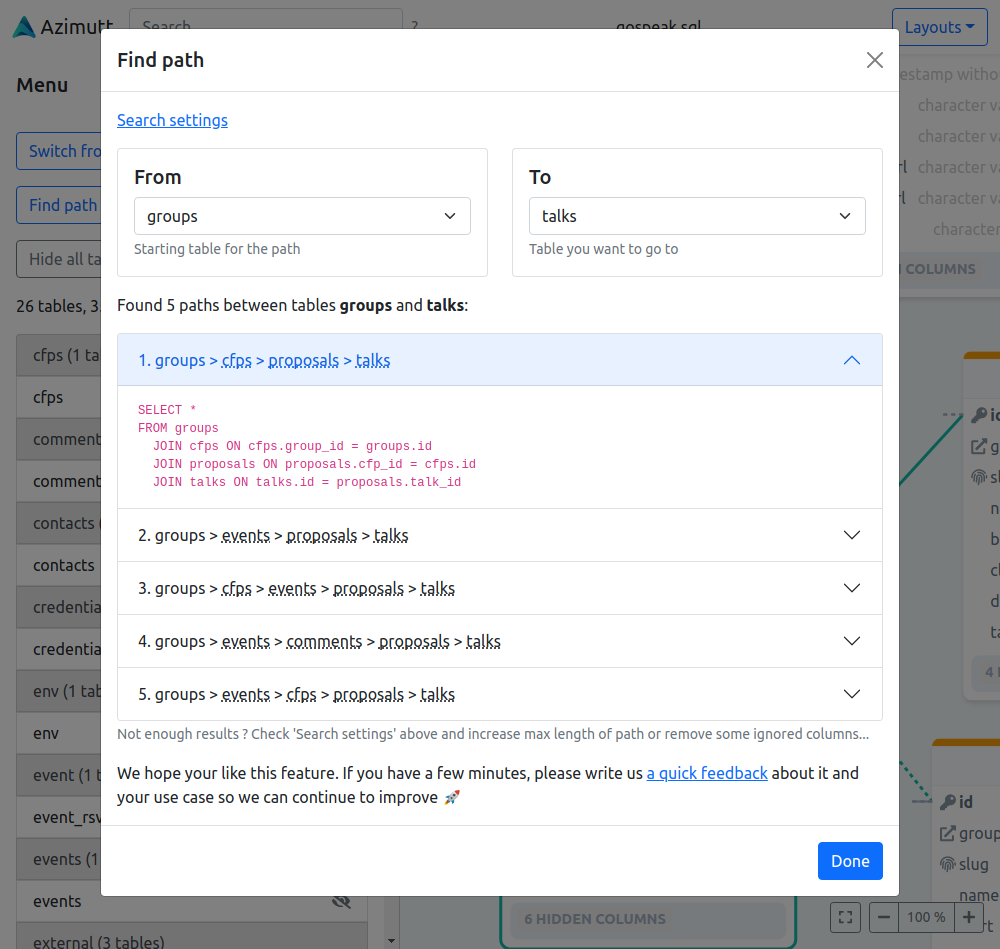
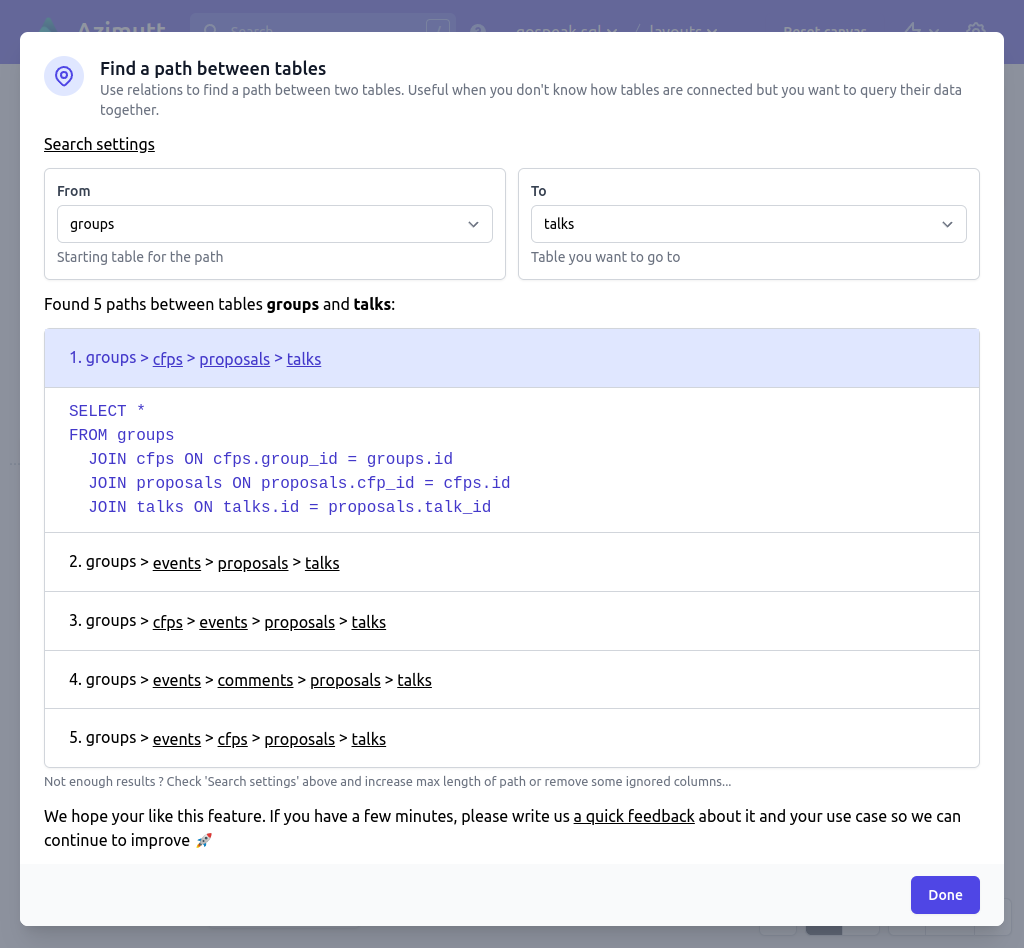
update screenshots

diff --git a/public/service-worker.js b/public/service-worker.js
@@ -7,8 +7,8 @@ const assets = [
     '/assets/images/background_hero.jpeg',
     '/assets/images/basic-schema.png',
     '/assets/images/gospeak-find-path.png',
-    '/assets/images/gospeak-incoming-relation.jpg',
-    '/assets/images/gospeak-layouts.jpg',
+    '/assets/images/gospeak-incoming-relation.png',
+    '/assets/images/gospeak-layouts.png',
     '/assets/images/gospeak-schema-full.png',
     '/assets/images/gospeak-schema-light.png',
     '/assets/sentry-268b122ecafb4f20b6316b87246e509c.min.js',
